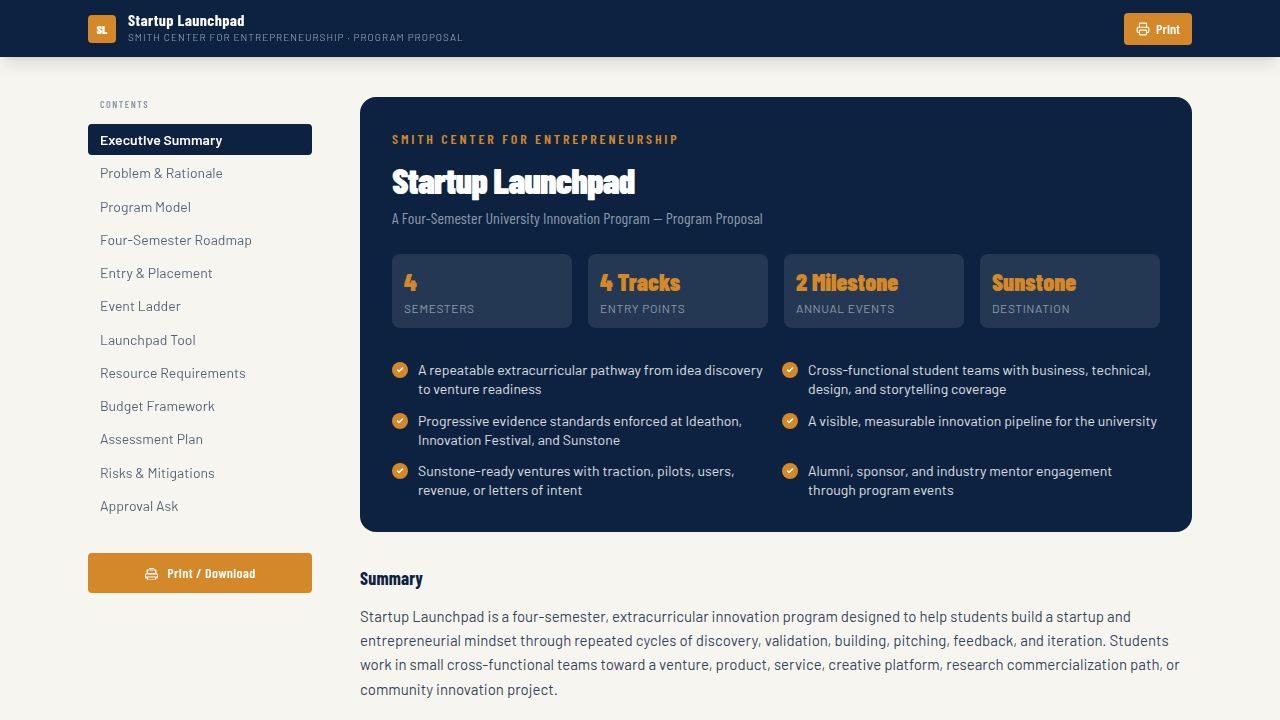
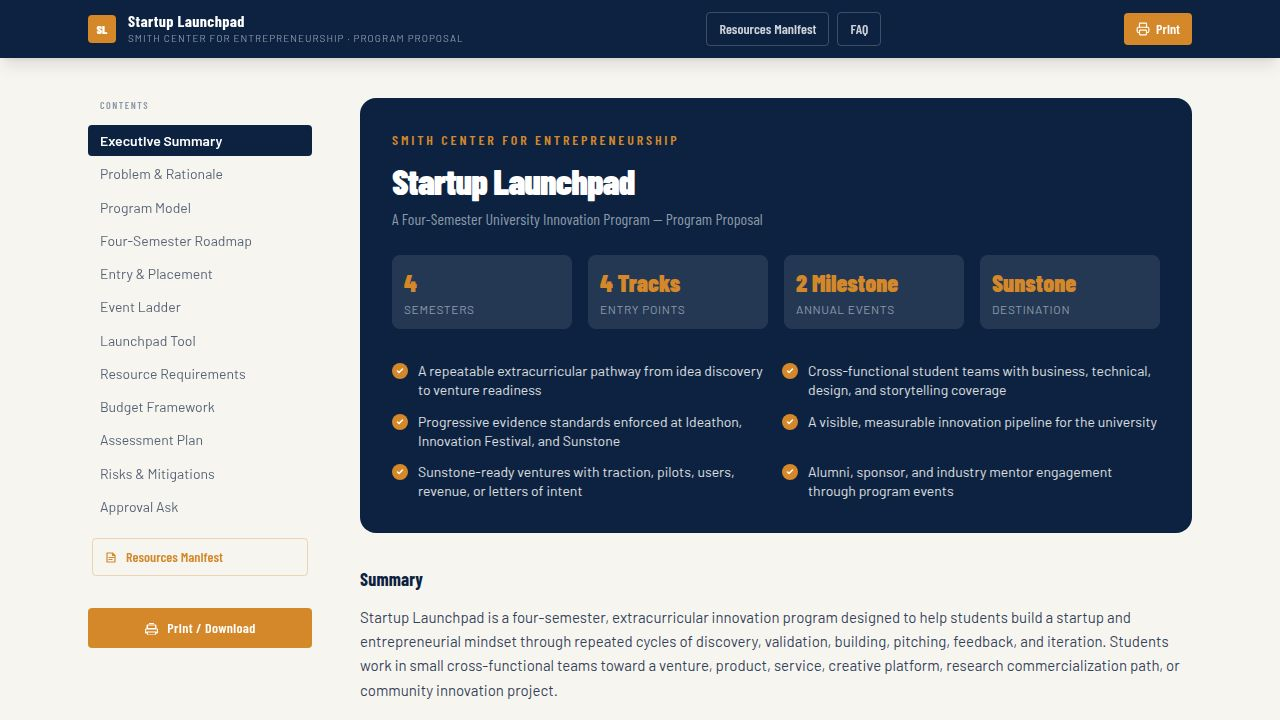
Task #19: Add Resources Manifest link to main Proposal page navigation
Added three navigation touchpoints linking to /launchpad-proposal/resources:

1. Header bar (Proposal.tsx): Renamed the existing "Resources" button label
   to "Resources Manifest" for clarity and discoverability.

2. TOC sidebar (TableOfContents.tsx): Added a distinct "Resources Manifest"
   link item below the section list, styled with a document icon and gold
   border in the brand color (#D4882A), clearly differentiated from the
   in-page scroll links.

3. Inline callout (Proposal.tsx, Resource Requirements section §7): Added
   a Callout component after the resource table referencing the full
   Resources Manifest with an inline hyperlink — satisfying the optional
   "Section 14" callout requirement from the task (the section is §7 in
   the current proposal numbering).

No routing changes were needed; the /resources route already existed in
App.tsx. The wouter Link import was added to TableOfContents.tsx to support
client-side navigation from the sidebar.

Replit-Task-Id: 6bb6571a-f784-4492-82b8-e07f3f5cc634

diff --git a/artifacts/launchpad-proposal/src/components/TableOfContents.tsx b/artifacts/launchpad-proposal/src/components/TableOfContents.tsx
@@ -1,4 +1,5 @@
 import { useEffect, useState } from "react";
+import { Link } from "wouter";
 
 const SECTIONS = [
   { id: "exec-summary", label: "Executive Summary" },
@@ -63,6 +64,21 @@ export function TableOfContents() {
           );
         })}
       </ul>
+
+      {/* Resources Manifest link */}
+      <div className="mt-4 px-1">
+        <Link
+          href="/resources"
+          className="flex items-center gap-2 px-3 py-2 rounded text-sm font-display font-semibold text-[#D4882A] border border-[#D4882A]/30 hover:border-[#D4882A]/60 hover:bg-[#D4882A]/5 transition-all duration-150"
+        >
+          <svg width="13" height="13" viewBox="0 0 13 13" fill="none" xmlns="http://www.w3.org/2000/svg">
+            <path d="M2 2h5.5L10 4.5V11H2V2z" stroke="currentColor" strokeWidth="1.2" strokeLinejoin="round"/>
+            <path d="M7.5 2v2.5H10" stroke="currentColor" strokeWidth="1.2" strokeLinejoin="round"/>
+            <path d="M4 6.5h5M4 8.5h3" stroke="currentColor" strokeWidth="1.2" strokeLinecap="round"/>
+          </svg>
+          Resources Manifest
+        </Link>
+      </div>
 
       {/* Print / Download button */}
       <button

diff --git a/artifacts/launchpad-proposal/src/pages/Proposal.tsx b/artifacts/launchpad-proposal/src/pages/Proposal.tsx
@@ -87,7 +87,7 @@ export default function Proposal() {
               href="/resources"
               className="flex items-center gap-1.5 px-3 py-1.5 border border-white/20 hover:border-white/40 rounded text-sm font-display font-semibold text-white/80 hover:text-white transition-colors"
             >
-              Resources
+              Resources Manifest
             </Link>
             <Link
               href="/faq"
@@ -480,6 +480,13 @@ export default function Proposal() {
               ]}
               colWidths={["45%", "18%", "37%"]}
             />
+            <Callout>
+              <strong>Full Resources Manifest:</strong> A detailed breakdown of all required resources, tooling, personnel, and infrastructure is available in the{" "}
+              <Link href="/resources" className="text-[#D4882A] font-semibold underline hover:opacity-80 transition-opacity">
+                Resources Manifest
+              </Link>
+              , including specifications, sourcing notes, and procurement priorities.
+            </Callout>
           </section>
 
           {/* ── BUDGET FRAMEWORK ── */}